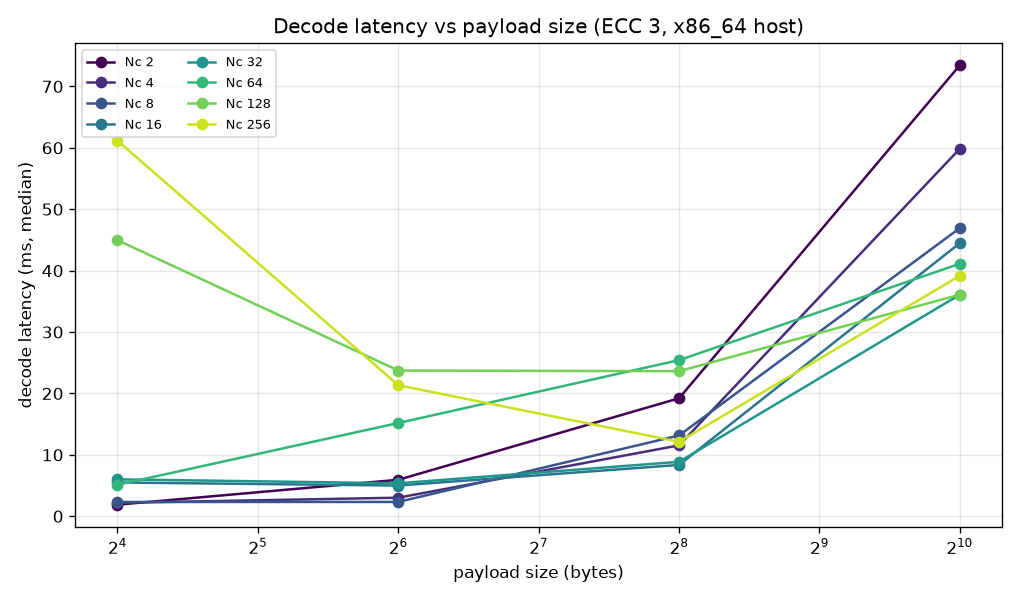
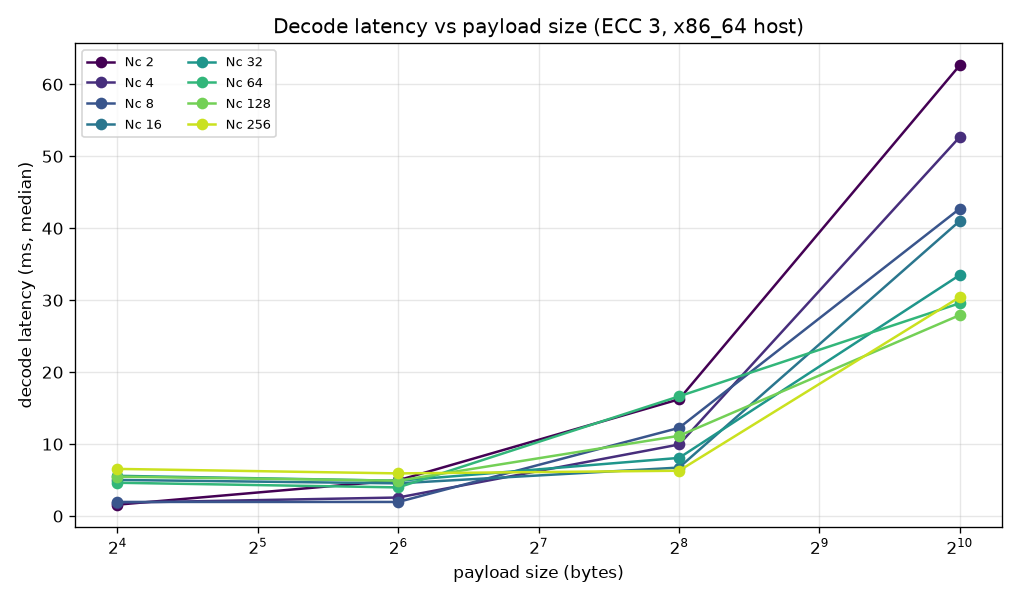
bench: refresh suite on optimized decoder + robustness panel
The committed benchmark was frozen at PR #89 (pre-optimization) and
undersold the decoder by up to ~19.6x. Re-run the whole suite on the
current optimized decoder (latency campaign through PR #91) and add the
capture-robustness axis the original suite lacked.

Codec sweep (bench_sweep, wikipedia fixture) -> data/sweep.jsonl:
  - ECC encode is now FLAT ~3.2-5.5 ms across ECC 1->10 (was 9.5->109 ms).
  - ECC decode lower: ~7.7 ms (L1) -> ~97.5 ms (L10), was 8.8->150.9 ms.
  - Capacity (80/80 cells) and wikipedia (8/8) BYTE-IDENTICAL to baseline
    (the opts were behaviour-preserving) -- the expected sanity result.

Transcode survival (transcode_survival.py): 49/49 cells unchanged.

QR comparison (zxing_compare.py): density gap unchanged (~3.8x JABCode);
decode-latency gap narrowed from ~10x to ~9x (QR 0.22 ms vs JABCode-8c
1.96 ms @64B, was 2.33 ms) as the optimized decoder closed part of it.

Robustness panel (new -- the missing axis):
  - robustness_decode_vs_degradation.png: R0 rig over the synthetic corpus
    (144 imgs, 6 families x severity ladder, SHA-verified, overall 82.6%).
  - robustness_vs_nc_profiles.png: R1 rig robustness-vs-Nc per threat
    family with the three per-medium encoding-profile picks marked
    (hostile/Nc1, print/Nc3, clean/Nc7).
  - gen_charts.py reads the R0 aggregate + R1 CSVs; README §7 + findings
    updated; the ECC/latency prose corrected for the flat-encode picture.

All 14 charts regenerated. Rig run-products (aggregate.json, per-image
[…]

diff --git a/benchmarks/gen_charts.py b/benchmarks/gen_charts.py
@@ -217,4 +217,110 @@ ax.set_ylabel("latency (ms)")
 ax.set_title("End-to-end verification budget — decode measured, crypto scaffolded")
 save(fig, "verification_budget.png"); made.append("verification_budget.png")
 
+# ============================================================================
+# ROBUSTNESS PANEL — the axis the capacity/latency/ECC suite lacked.
+# Two measured views of decode survival under capture degradation:
+#   A. decode-rate vs degradation severity (R0 rig, synthetic corpus, by family)
+#   B. robustness vs colour count, per threat family, with the per-medium
+#      encoding-profile picks (R1) marked.
+# Sources (regenerated by the robustness rigs, not bench_sweep):
+#   robustness/r0/rig/results/rig_manifest.aggregate.json  (run.sh on synthetic)
+#   robustness/r1-profiles/data/decode_rates.csv + profiles_table.csv
+# Both are guarded: absent inputs simply skip the chart.
+# ============================================================================
+import csv
+ROB = os.path.normpath(os.path.join(HERE, "..", "robustness"))
+# Paul-Tol palette, shared with the R1 charts, so the panel reads as one suite.
+FAM_COLOR = {"chroma": "#EE6677", "lighting": "#CCBB44",
+             "blur": "#4477AA", "downscale": "#228833",
+             "perspective": "#AA3377", "jpeg": "#66CCEE"}
+FAM_LABEL = {"chroma": "chroma (colour wash)", "lighting": "lighting (illum. ramp)",
+             "blur": "blur (defocus)", "downscale": "downscale (low-res)",
+             "perspective": "perspective (off-axis)", "jpeg": "JPEG (recompress)"}
+
+# ---- 10. Decode-rate vs degradation severity (R0 rig, synthetic corpus) ----
+agg_path = os.path.join(ROB, "r0", "rig", "results", "rig_manifest.aggregate.json")
+if os.path.exists(agg_path):
+    agg = json.load(open(agg_path))
+    # by_condition keys look like "conditions=blur@2.0"; parse family + param.
+    fam_curves = {}  # family -> list of (param_float, rate)
+    for key, v in agg.get("by_condition", {}).items():
+        cond = key.split("conditions=", 1)[-1].strip()
+        if "@" not in cond:
+            continue
+        fam, param = cond.split("@", 1)
+        try:
+            pf = float(param.rstrip("pxdeg"))
+        except ValueError:
+            continue
+        fam_curves.setdefault(fam, []).append((pf, v["decode_rate"]))
+    if fam_curves:
+        overall = agg.get("overall", {})
+        fig, ax = plt.subplots(figsize=(8.5, 5))
+        # Normalise each family's ladder to a 0..1 "severity" x so families with
+        # different param units (px, deg, fraction) share one axis, mildest→worst.
+        for fam in sorted(fam_curves):
+            pts = sorted(fam_curves[fam], key=lambda t: t[0])
+            # severity rises with param for every family EXCEPT downscale, whose
+            # param is target px/module (smaller = harsher) — flip it so all
+            # curves run mild→severe left→right.
+            if fam == "downscale":
+                pts = sorted(pts, key=lambda t: -t[0])
+            xs = np.linspace(0, 1, len(pts)) if len(pts) > 1 else [0.5]
+            ys = [r * 100 for _, r in pts]
+            ax.plot(xs, ys, "-o", color=FAM_COLOR.get(fam, "#888"),
+                    label=FAM_LABEL.get(fam, fam), linewidth=2, markersize=7)
+        ax.set_xlabel("degradation severity  (mild → severe, per-family ladder normalised)")
+        ax.set_ylabel("decode-rate  (%)  — 8 symbols/cell, SHA-verified")
+        ax.set_title("Robustness: decode-rate vs degradation severity\n"
+                     f"(R0 rig, synthetic corpus, {overall.get('n','?')} images, "
+                     f"overall {overall.get('decode_rate',0)*100:.0f}%)")
+        ax.set_ylim(-3, 105); ax.legend(ncol=2, fontsize=8, loc="lower left")
+        save(fig, "robustness_decode_vs_degradation.png")
+        made.append("robustness_decode_vs_degradation.png")
+
+# ---- 11. Robustness vs Nc per family, with the per-medium profile picks ----
+rates_csv = os.path.join(ROB, "r1-profiles", "data", "decode_rates.csv")
+prof_csv = os.path.join(ROB, "r1-profiles", "data", "profiles_table.csv")
+if os.path.exists(rates_csv):
+    rr = []
+    for r in csv.DictReader(open(rates_csv)):
+        r["nc"] = int(r["nc"]); r["ecc"] = int(r["ecc"])
+        r["decode_rate"] = float(r["decode_rate"])
+        rr.append(r)
+    ncs_r = sorted({r["nc"] for r in rr})
+    fams_r = ["chroma", "lighting", "blur", "downscale"]
+    def _mean(xs):
+        xs = list(xs); return sum(xs) / len(xs) if xs else np.nan
+    fig, ax = plt.subplots(figsize=(8.5, 5.2))
+    for fam in fams_r:
+        ys = [_mean(r["decode_rate"] for r in rr if r["family"] == fam and r["nc"] == nc) * 100
+              for nc in ncs_r]
+        ax.plot(ncs_r, ys, "-o", color=FAM_COLOR.get(fam), label=FAM_LABEL.get(fam),
+                linewidth=2, markersize=7)
+    # overall mean (heavy black) — the "which Nc is most robust overall" line.
+    ovr = [_mean(r["decode_rate"] for r in rr if r["nc"] == nc) * 100 for nc in ncs_r]
+    ax.plot(ncs_r, ovr, "--ks", label="all families (mean)", linewidth=2, markersize=6)
+    # mark the per-medium profile picks from profiles_table.csv.
+    if os.path.exists(prof_csv):
+        for p in csv.DictReader(open(prof_csv)):
+            nc = int(p["nc"])
+            if nc in ncs_r:
+                y = _mean(r["decode_rate"] for r in rr if r["nc"] == nc) * 100
+                ax.scatter([nc], [y], s=320, facecolors="none", edgecolors="#222",
+                           linewidths=2.2, zorder=5)
+                ax.annotate(p["medium"].split("/")[0].strip() + f"\n(Nc{nc}/ECC{p['ecc']})",
+                            (nc, y), textcoords="offset points", xytext=(8, -28),
+                            fontsize=8, ha="left",
+                            bbox=dict(boxstyle="round,pad=0.25", fc="white", ec="#222", alpha=0.85))
+    ax.set_xticks(ncs_r)
+    ax.set_xticklabels([f"{nc}\n({1<<(nc+1)}c)" for nc in ncs_r])
+    ax.set_xlabel("Nc  (colour-count index;  colours = 2^(Nc+1))")
+    ax.set_ylabel("decode-rate  (%)  — mean over ECC {3,5,8} × param ladder")
+    ax.set_title("Robustness vs colour count, per threat family\n"
+                 "(R1 rig; circled = the per-medium encoding-profile pick)")
+    ax.set_ylim(-3, 108); ax.legend(ncol=2, fontsize=8, loc="lower left")
+    save(fig, "robustness_vs_nc_profiles.png")
+    made.append("robustness_vs_nc_profiles.png")
+
 print(f"\nGenerated {len(made)} charts -> {CH}")

diff --git a/benchmarks/README.md b/benchmarks/README.md
@@ -1,9 +1,12 @@
 # JABCode codec benchmarks — the full picture
 
 A measured-from-source view of the JABCode codec across the axes that matter:
-**capacity, latency, the ECC tradeoff, and transcode robustness** — plus a scaffold
-for the end-to-end verification budget. Generated on the `claude/benchmark-full-picture`
-branch off the 100%-ISO-conformant decoder (jabcode PRs #85–#88).
+**capacity, latency, the ECC tradeoff, transcode robustness, and capture
+robustness** — plus a scaffold for the end-to-end verification budget. **Refreshed
+on the optimized decoder** (the JABCode latency campaign, jabcode PRs through #91:
+the ~19.6× encode speedup + decode/binarize work). The encode/decode latency here
+is the *post-optimization* picture; capacity and transcode-survival are byte-identical
+to the pre-optimization baseline (the opts were behaviour-preserving), as expected.
 
 ## What is measured vs. scaffolded
 
@@ -11,11 +14,16 @@ branch off the 100%-ISO-conformant decoder (jabcode PRs #85–#88).
 |---|---|---|
 | `bench_sweep` (C, host x86_64, links libjabcode) | capacity heatmap, text-vs-binary, latency, ECC Pareto, Wikipedia, density | **measured** |
 | `transcode_survival.py` (C encode → PIL transform → C decode) | transcode-survival heatmap | **measured** (digital channel, 1 trial/cell) |
+| **R0 rig** (`robustness/r0`, C `r0_decode` probe + synthetic corpus) | **decode-rate vs degradation** | **measured** (8 symbols/cell, SHA-verified) |
+| **R1 rig** (`robustness/r1-profiles`, R0 rig over an Nc×ECC grid) | **robustness vs Nc + per-medium profiles** | **measured** (5 payloads/cell, SHA-verified) |
 | representative crypto timings | verification budget | **scaffold** — decode is measured, PKI/ABE/JWT are placeholders pending the `jab-auth` module benchmarks |
 
-Reproduce: `make -C src/jabcode sweep transcode` then `python benchmarks/gen_charts.py`.
-Fixtures: `fixtures/wikipedia_qr.txt` (the Wikipedia *QR code* article, ~7.6 KB, the
-text-capacity stress payload). Raw data: `data/*.jsonl`.
+Reproduce the codec suite: `make -C src/jabcode sweep transcode`, run
+`build/bench_sweep fixtures/wikipedia_qr.txt > data/sweep.jsonl` and
+`python benchmarks/transcode_survival.py`, then `python benchmarks/gen_charts.py`.
+The robustness panel additionally needs the R0 rig run before `gen_charts.py`
+(see §7). Fixtures: `fixtures/wikipedia_qr.txt` (the Wikipedia *QR code* article,
+~7.6 KB, the text-capacity stress payload). Raw data: `data/*.jsonl`.
 
 ---
 
@@ -57,8 +65,11 @@ the polychrome density advantage, quantified.
 
 ![latency by Nc](charts/latency_by_nc.png)
 
-Encode and decode median latency by colour mode (256 B, ECC 3, x86_64 host). Decode
-dominates (the LDPC + colour classification), and rises with colour depth.
+Encode and decode median latency by colour mode (256 B, ECC 3, x86_64 host), on the
+**optimized decoder**. Decode still dominates (the LDPC + colour classification), but
+after the latency campaign encode is **flat ~3–5 ms** across every colour mode and the
+old "cost rises monotonically with colour depth" shape is gone — decode is now in a
+tight ~6–17 ms band with no clean Nc trend at this payload.
 
 ![latency vs payload](charts/latency_vs_payload.png)
 
@@ -72,10 +83,12 @@ Mode-0 limitation, surfaced honestly here as `dec_ok=0`.)
 
 ![ECC pareto](charts/ecc_pareto.png)
 
-The robustness-vs-everything-else curve (8-colour). Climbing ECC 1→10 trades capacity
-(~4 KB → ~1 KB at this payload) **and** decode latency (~9 ms → ~150 ms) for error
-resilience. The default level 3 sits where the curve is still cheap — the right knee for
-the print-vs-screen two-medium posture.
+The robustness-vs-everything-else curve (8-colour), on the **optimized decoder**.
+Climbing ECC 1→10 trades capacity (~4.8 KB → ~1.1 KB at this payload) **and** decode
+latency (**~8 ms → ~97 ms**, down from ~9→151 ms pre-optimization) for error resilience.
+*Encode no longer pays for ECC* — it stays flat ~3–6 ms across the whole range, so the
+ECC trade now lives entirely on the decode + capacity axes. The default level 3 sits
+where the curve is still cheap — the right knee for the print-vs-screen two-medium posture.
 
 ---
 
@@ -133,17 +146,81 @@ zxing-cpp** would close — making this comparison itself an argument for the co
 
 ---
 
+## 7 · Capture robustness — the axis the rest of the suite lacked
+
+Capacity, latency, ECC, and *digital* transcode-survival all assume the symbol
+reaches the decoder roughly intact. The missing axis is **what survives real
+capture degradation** — defocus, off-axis perspective, illumination ramps, screen
+colour-wash, low-res sensors, recompression. The R0/R1 rigs measure exactly that,
+decode-rate with **known-payload SHA-256 verification** (a decode counts only if the
+bytes are *correct*, so a lucky-looking-but-wrong decode never scores).
+
+### Decode-rate vs degradation severity
+
+![robustness decode vs degradation](charts/robustness_decode_vs_degradation.png)
+
+The **R0 rig** over the synthetic corpus (144 images = 8 colour modes × 6
+degradation families × a per-family severity ladder, 8 symbols/cell). Overall
+**82.6 %**. The shape is the point: **downscale and JPEG-recompress hold ~100 %**
+across the whole ladder (the codec is robust to ordinary distribution transforms,
+echoing §4), while **chroma (colour-wash) and off-axis perspective cliff hard** at
+the worst rung (→25 %), **blur** falls to 50 %, and the **illumination ramp**
+degrades gracefully to ~62 %. These are the *capture* failure modes a camera SDK
+must design around — invisible to every other chart in this suite.
+
+### Robustness vs colour count, with the per-medium profile picks
+
+![robustness vs Nc with profiles](charts/robustness_vs_nc_profiles.png)
+
+The **R1 rig** sweeps the degradation families across an Nc×ECC grid (5
+payloads/cell, SHA-verified) and asks *which colour count is most robust*. The
+all-families mean is an **inverted-U peaking at Nc2–3 (8–16 colours) and collapsing
+at Nc7 (256 colours)** — more colours pack more data but sit closer together, so a
+colour-wash or illumination ramp folds them into each other. The per-family split
+is sharper still: **chroma and lighting strongly favour low Nc** (Nc1 = 100 % on
+both), while **downscale is flat** across Nc and **blur dips at Nc1** then recovers.
+
+That threat-specificity is what the **per-medium encoding profiles** encode (the
+three circled picks, from `robustness/r1-profiles/data/profiles_table.csv`):
+
+| medium | pick | the threat it's tuned for |
+|---|---|---|
+| **hostile / screen** | Nc1 / ECC5 (4-colour) | chroma + lighting — 100 % at Nc1 vs 47 % at Nc7 |
+| **print / luxury-COA** | Nc3 / ECC5 (16-colour) | defocus + low-res — 100 % at Nc3, at 2.0× the hostile density |
+| **clean / archival** | Nc7 / ECC3 (256-colour) | no capture degradation → maximise density (921 B/symbol, 4.7×) |
+
+The strategic read: **robustness is bought by colour-count selection, not by ECC**
+(the R1 data shows the ECC marginal is nearly flat on these correlated, structural
+degradations; ECC's real price is capacity). The right symbol depends on the
+medium — which is precisely the per-medium-profile encoder posture, now evidence-backed.
+
+> Reproduce the panel: `python robustness/r0/synthetic/to_rig_manifest.py` then
+> `robustness/r0/rig/run.sh "$(pwd)/robustness/r0/synthetic/out/rig_manifest.jsonl" conditions`
+> writes `robustness/r0/rig/results/rig_manifest.aggregate.json`; the R1 CSVs under
+> `robustness/r1-profiles/data/` are committed (regenerate via that module's
+> `gen/build_corpus.py`). `gen_charts.py` then reads both and emits the two charts.
+
+---
+
 ## Key findings
 
 - **Capacity:** up to ~12.6 KB in one 256-colour symbol (ECC 1); the whole Wikipedia
   article in one 64-colour symbol; ~4× QR's maximum at high colour depth.
 - **Text > binary** at every operating point (mode compression).
-- **ECC is the dominant latency *and* capacity knob** — far more than colour mode.
+- **ECC is now a *decode-only* knob (post-optimization):** encode is **flat ~3–6 ms**
+  across ECC 1→10 (was 9.5→109 ms before the latency campaign); decode still climbs
+  with ECC (≈8 → 97 ms across the level range at 256 B, 8-colour), which is where the
+  ECC Pareto trade now lives. Capacity is unchanged — the opts were behaviour-preserving.
 - **Transcode-robust** at sane module sizes; cliffs only at extreme downscale or
   high-colour heavy JPEG.
+- **Capture-robust by *colour-count selection*, not ECC:** the R0/R1 panel (§7) shows
+  decode-rate is an inverted-U over Nc (peak Nc2–3, collapse at Nc7); colour-wash and
+  perspective are the hard threats. Robustness is bought by picking the right Nc per
+  medium — the per-medium-profile encoder posture, now evidence-backed.
 - **Conformance dividend:** these are the codec's numbers *as a fully ISO/IEC 23634
   decoder* — the same artifact that anchors the standards-credibility narrative.
 - **vs QR (zxing-cpp):** JABCode wins density ~4× (11.2 KB vs 2.95 KB); QR wins decode
-  latency ~10× (0.22 ms vs 2.33 ms @ 64 B) and survives more transcoding. JABCode's niche
-  is density + multi-layer crypto — *not* speed/robustness — and part of QR's lead is
-  reader maturity, the gap a zxing-cpp JABCode port would close.
+  latency, but the gap **narrowed from ~10× to ~9×** on the optimized decoder
+  (0.22 ms vs **1.96 ms** @ 64 B, was 2.33 ms) and QR still survives more transcoding.
+  JABCode's niche is density + multi-layer crypto — *not* speed/robustness — and part
+  of QR's residual lead is reader maturity, the gap a zxing-cpp JABCode port would close.
